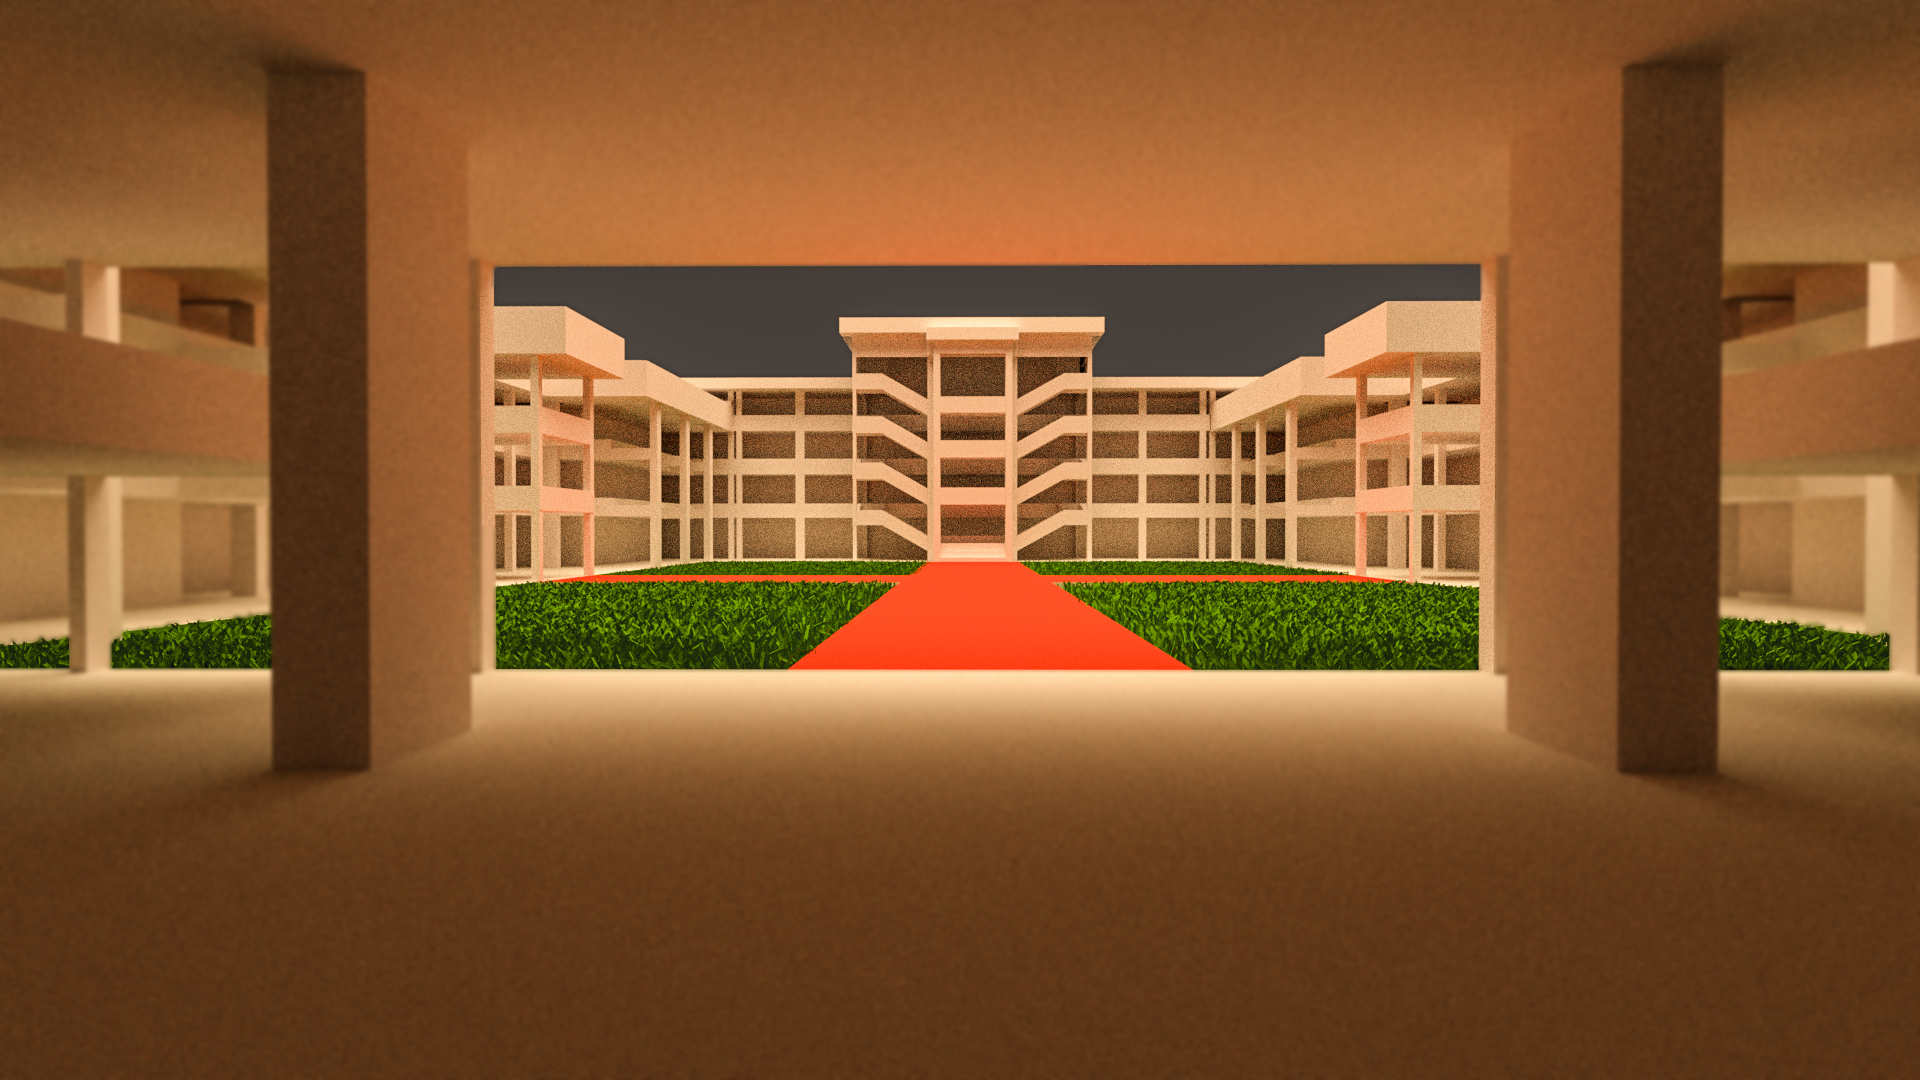
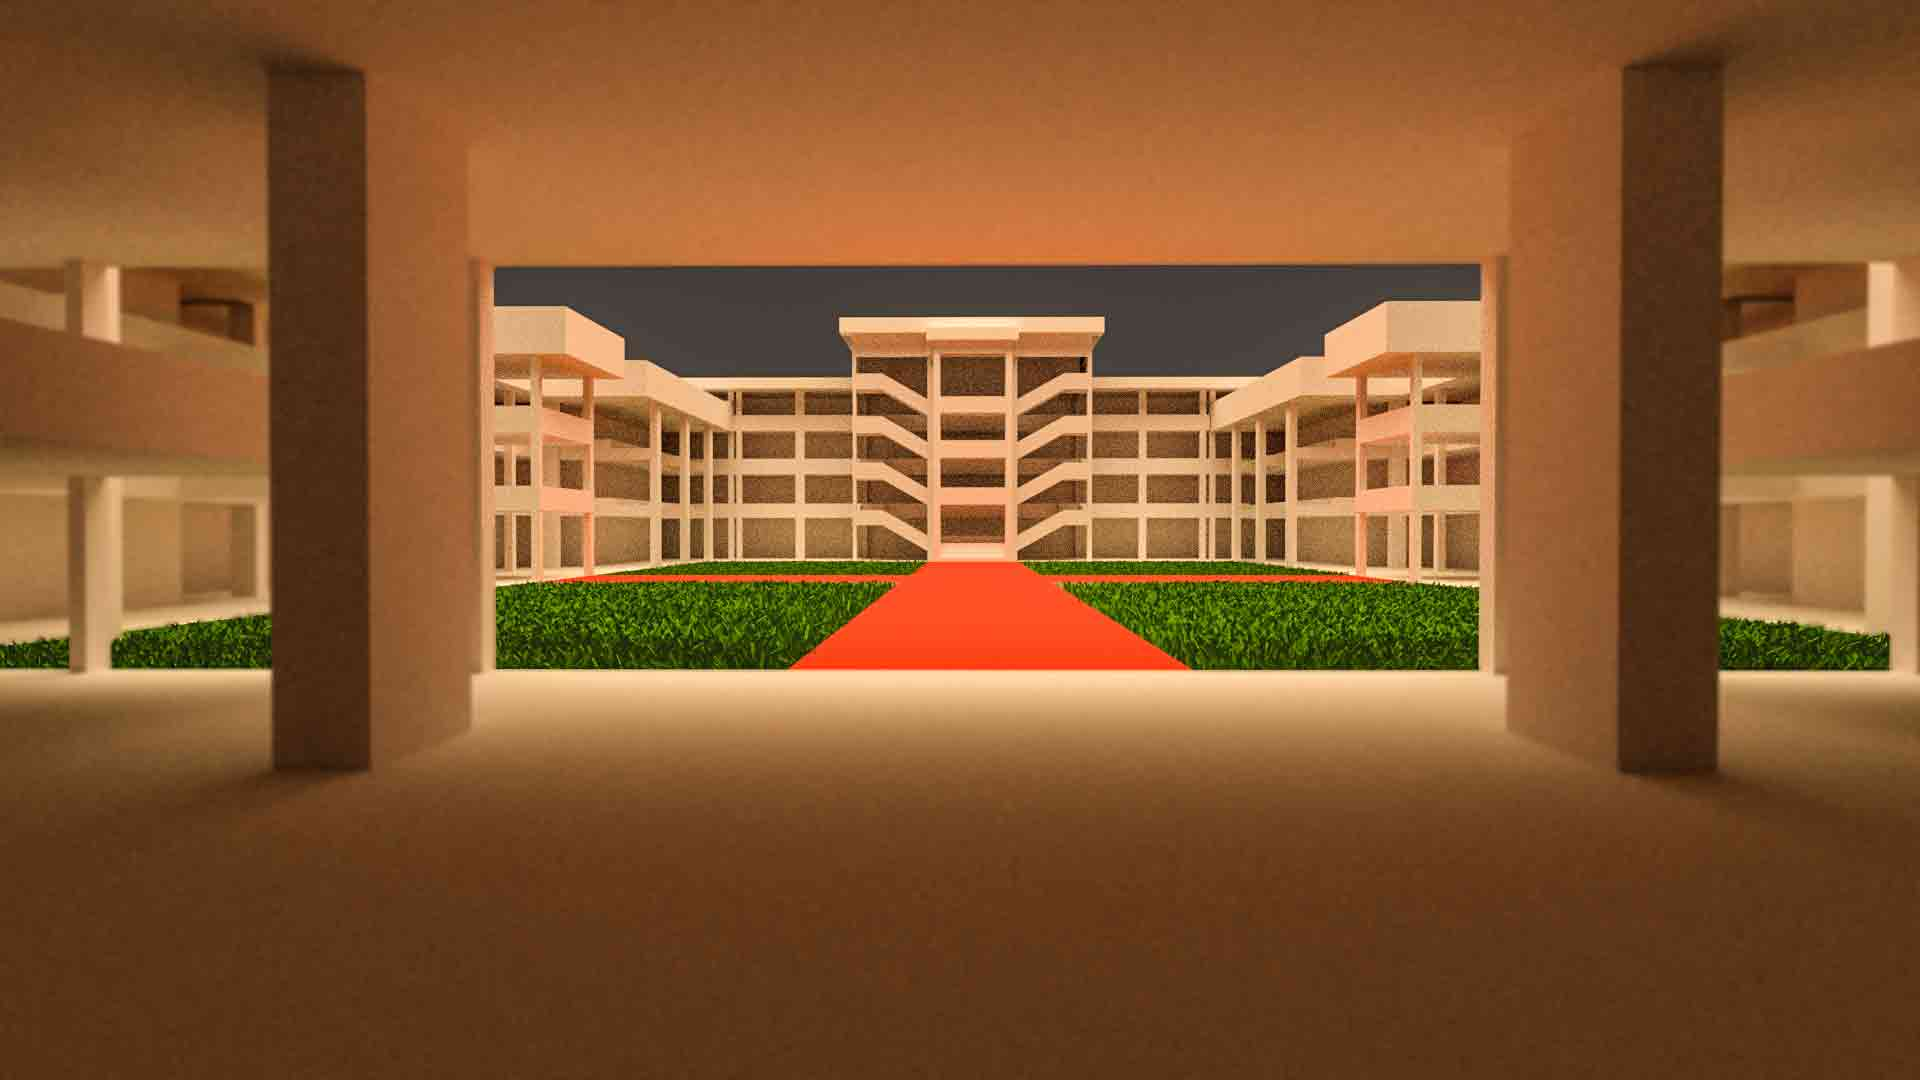
optmized images

diff --git a/src/components/works/Works.js b/src/components/works/Works.js
@@ -1,16 +1,14 @@
-import React, { useEffect, useState } from "react";
-import Navbar from "../navbar/Navbar";
+import React from "react";
 import Footer from "../footer/Footer";
-import almas from "../../assets/almas.png";
-import karunya from "../../assets/karunya.png";
-import fakebuster from "../../assets/fakebuster.png";
-import garud from "../../assets/garud.png";
+import almas from "../../assets/almas.jpg";
+import karunya from "../../assets/karunya.jpg";
+import fakebuster from "../../assets/fakebuster.jpg";
+import garud from "../../assets/garud.jpg";
 import "./work.css";
 
 export default function Works() {
   return (
     <React.Fragment className="bg-valorant-violet">
-      {/* <Navbar /> */}
       <div className="min-h-screen">
         <div class="flex flex-wrap sm:w-1/2 ml-5 mr-5 sm:ml-auto sm:mr-auto mt-20">
           <div className="flex w-full items-center">
